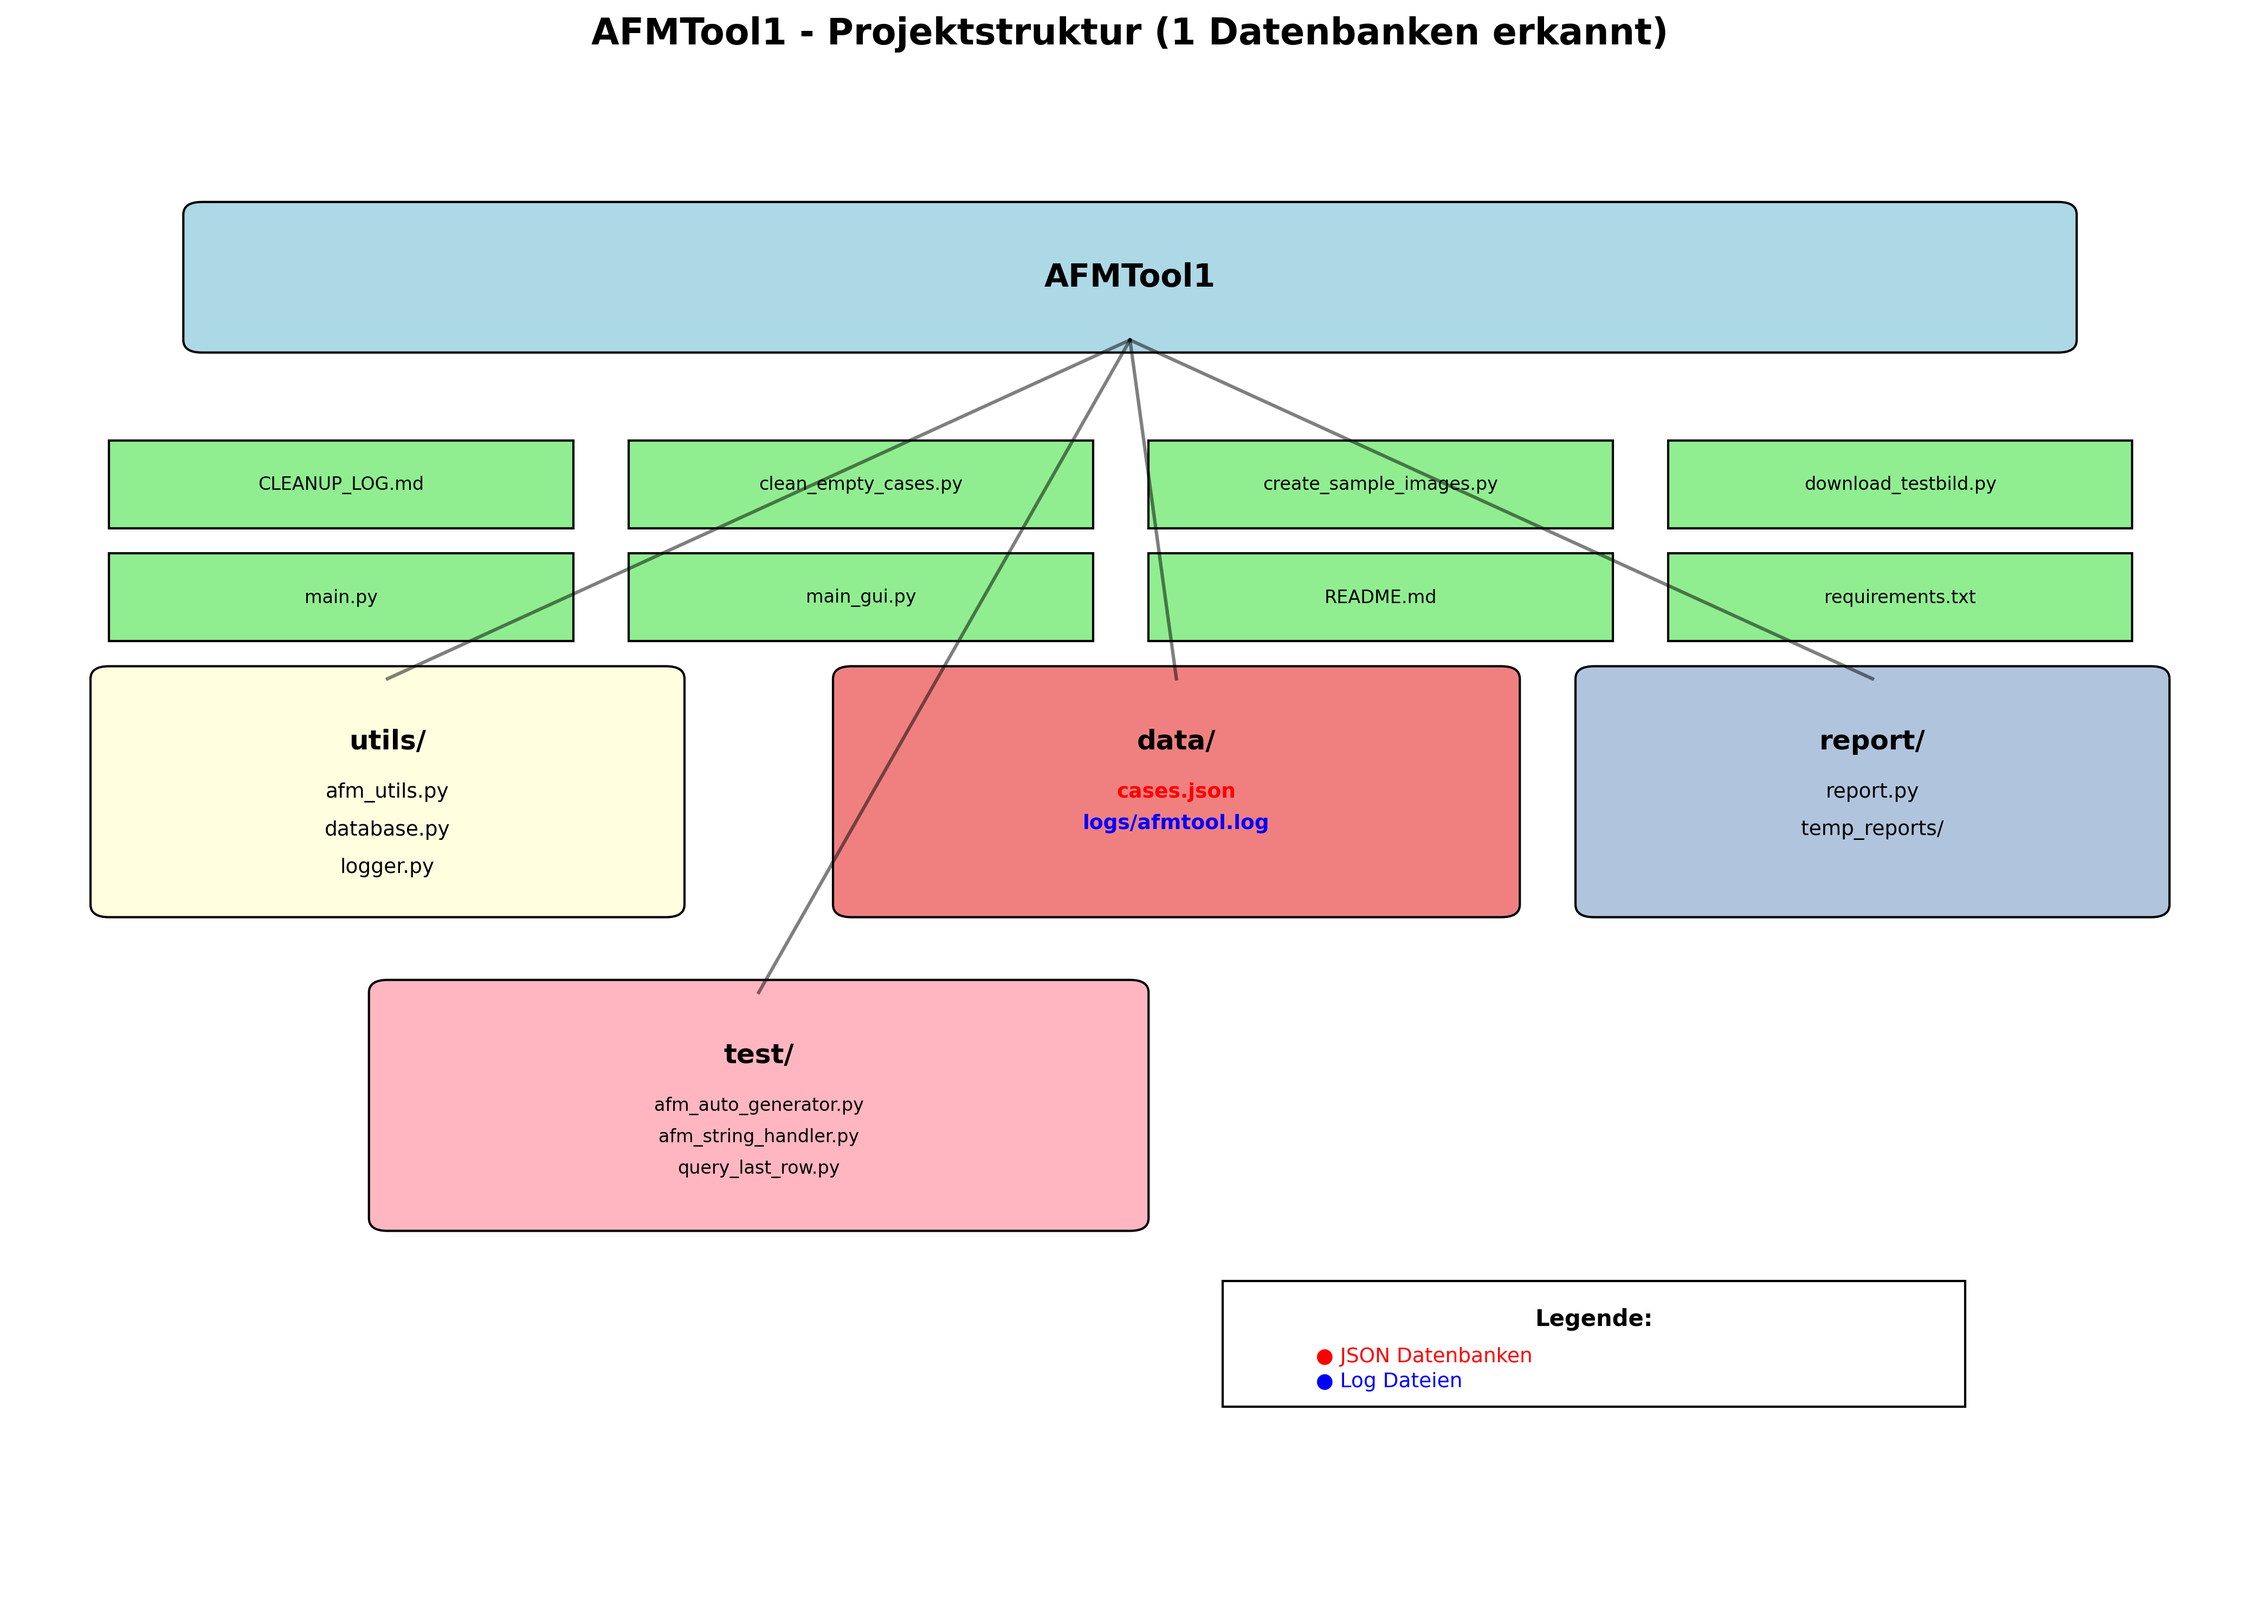
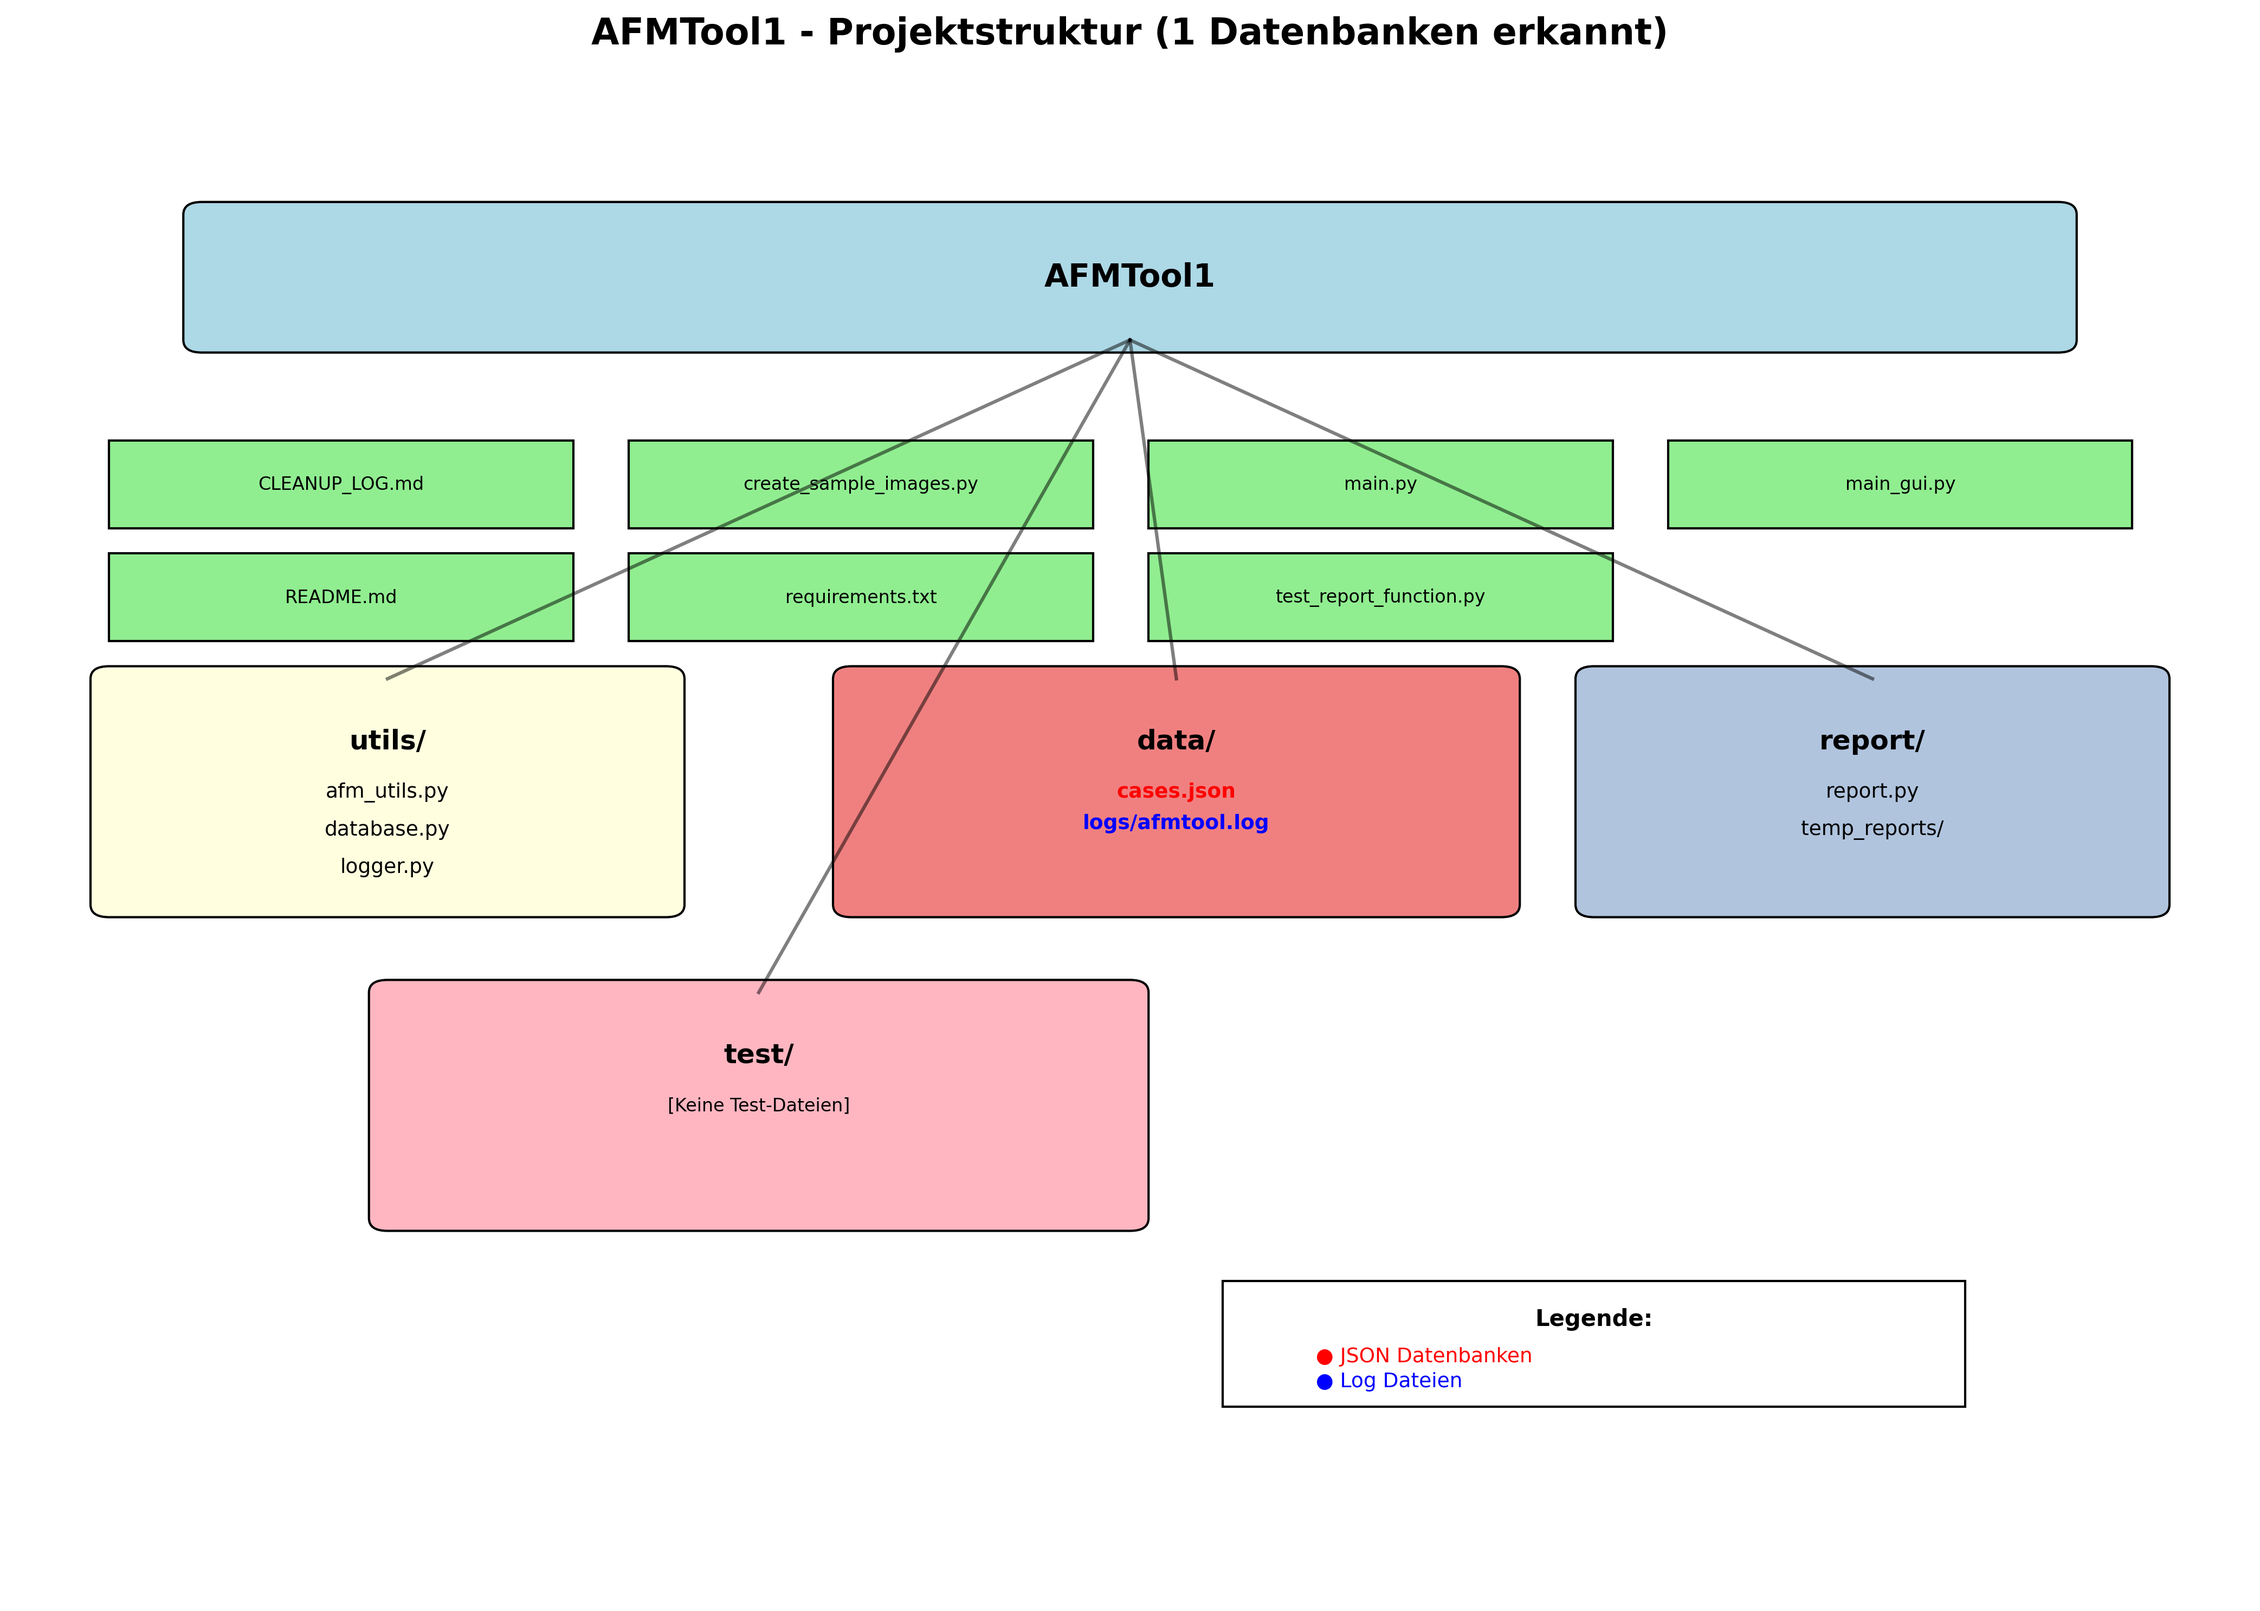
Test erfolgreich: generate_report() Funktion validiert und bereinigt

diff --git a/test_report_function.py b/test_report_function.py
@@ -1,0 +1,56 @@
+#!/usr/bin/env python3
+"""
+Test für generate_report() Funktion
+"""
+
+import sys
+from pathlib import Path
+
+# AFMTool GUI importieren
+sys.path.append(str(Path(__file__).parent / "gui"))
+sys.path.append(str(Path(__file__).parent))
+from gui.main_window import AFMToolGUI
+
+def test_generate_report():
+    """Test der generate_report Funktion ohne GUI"""
+    print("🔍 Teste generate_report() Funktion...")
+    
+    try:
+        # GUI-Instanz erstellen (ohne mainloop)
+        app = AFMToolGUI()
+        
+        # Report-Pfad prüfen
+        report_module_path = app.cases_file.parent / "report" / "report.py"
+        print(f"📁 Report-Modul-Pfad: {report_module_path}")
+        print(f"✅ Report-Modul existiert: {report_module_path.exists()}")
+        
+        if report_module_path.exists():
+            # Import testen
+            import importlib.util
+            spec = importlib.util.spec_from_file_location("report", report_module_path)
+            report_module = importlib.util.module_from_spec(spec)
+            spec.loader.exec_module(report_module)
+            print("✅ Report-Modul erfolgreich importiert")
+            
+            # AFMReporter Klasse testen
+            reporter = report_module.AFMReporter()
+            print("✅ AFMReporter Instanz erstellt")
+            
+            # PDF generieren testen
+            pdf_path = reporter.generate_pdf_report()
+            print(f"✅ PDF-Report generiert: {pdf_path}")
+            print(f"📄 PDF existiert: {pdf_path.exists()}")
+            
+        else:
+            print("❌ Report-Modul nicht gefunden!")
+        
+        # GUI-Fenster schließen
+        app.root.destroy()
+        
+    except Exception as e:
+        print(f"❌ Fehler beim Test: {str(e)}")
+        import traceback
+        traceback.print_exc()
+
+if __name__ == "__main__":
+    test_generate_report()
